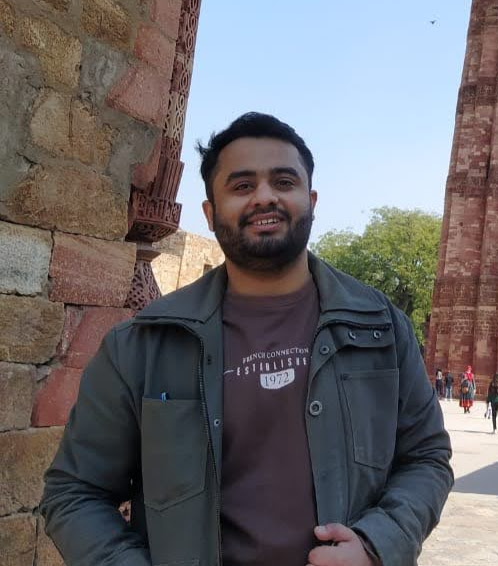
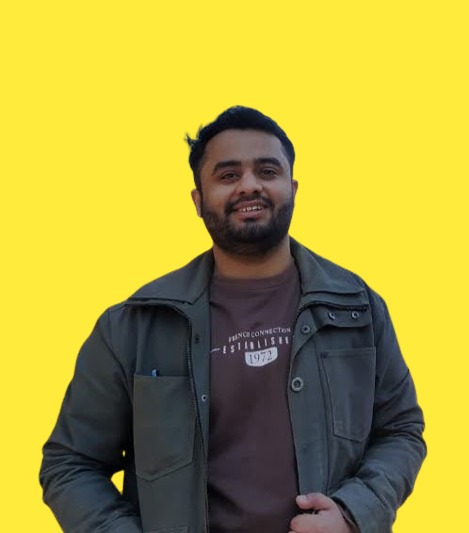
Built web

diff --git a/flutter_service_worker.js b/flutter_service_worker.js
@@ -6,13 +6,14 @@ const RESOURCES = {
   "android-chrome-192x192.png": "f416bb7d45caa131c21f74b0d3264c10",
 "android-chrome-512x512.png": "0166356c4dc414fd7331d06b5563c70c",
 "apple-touch-icon.png": "d7419387d353134c9a241c01fd030dc8",
-"assets/AssetManifest.json": "897f60e6de86928b3ba63486a86506b1",
+"assets/AssetManifest.json": "41ba251e09ff6d4c89b36fa1e9a66d20",
 "assets/assets/fonts/Exo2-VariableFont_wght.ttf": "afd53ab0d9cb6142bfb815b8c9226401",
 "assets/assets/images/github-logo.png": "3e22b5ef18f9a7c3e1a68c842dd13159",
 "assets/assets/images/instagram.png": "7a7fda3b3009d91a6e4f80e94e74cf9b",
 "assets/assets/images/l.png": "1a9291b12d642cb2fa8aa8fbef5c7be1",
 "assets/assets/images/s1.jpg": "9951370f7d3de63563c3d66342ae1ee2",
-"assets/assets/images/sarthak.jpg": "f0f40c0685f420535d694d3ddd3c1acb",
+"assets/assets/images/s2.jpg": "f0f40c0685f420535d694d3ddd3c1acb",
+"assets/assets/images/sarthak.jpg": "641eec3a5ab3b449efaf274c171f0b24",
 "assets/FontManifest.json": "07b115fe618cbad59b4ce6512f88090b",
 "assets/fonts/MaterialIcons-Regular.otf": "7e7a6cccddf6d7b20012a548461d5d81",
 "assets/NOTICES": "58eb3530da931724c60447c2f89eb9a8",
@@ -25,8 +26,8 @@ const RESOURCES = {
 "icons/Icon-512.png": "96e752610906ba2a93c65f8abe1645f1",
 "icons/Icon-maskable-192.png": "c457ef57daa1d16f64b27b786ec2ea3c",
 "icons/Icon-maskable-512.png": "301a7604d45b3e739efc881eb04896ea",
-"index.html": "540403eb7f370b314e65d001b9ee5b8f",
-"/": "540403eb7f370b314e65d001b9ee5b8f",
+"index.html": "e6936846e34d8bb50804c86d8e130203",
+"/": "e6936846e34d8bb50804c86d8e130203",
 "main.dart.js": "ae080deb4688d298d352f0c9a2d998a3",
 "manifest.json": "35d6110b8786714dd40187f90d568dc3",
 "site.webmanifest": "053100cb84a50d2ae7f5492f7dd7f25e",

diff --git a/index.html b/index.html
@@ -26,7 +26,7 @@
   <script>
     if ('serviceWorker' in navigator) {
       window.addEventListener('load', function () {
-        navigator.serviceWorker.register('flutter_service_worker.js?v=262350916');
+        navigator.serviceWorker.register('flutter_service_worker.js?v=3184585601');
       });
     }
   </script>
